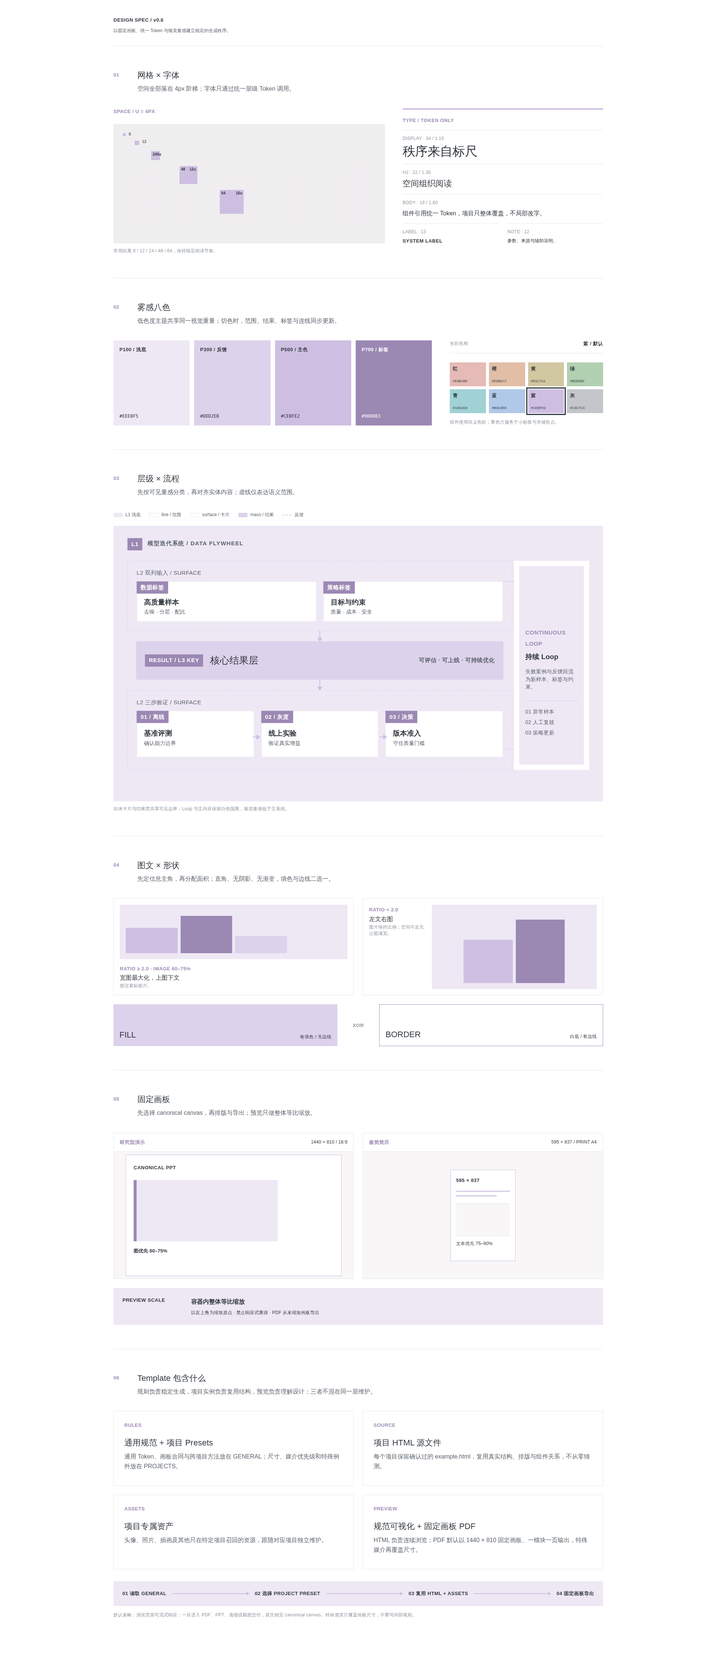
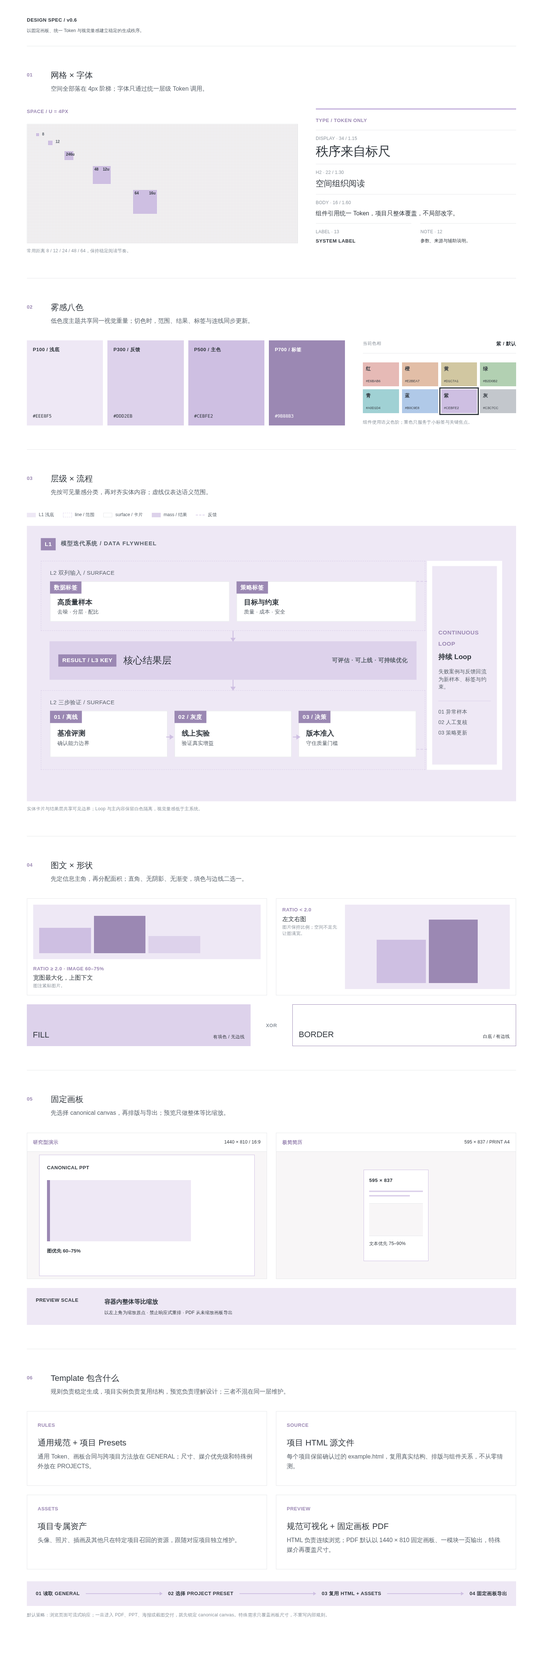
还原网页首图质感并优化展示截图

diff --git a/design-minimalist-613/assets/template/projects/personal-web/example.html b/design-minimalist-613/assets/template/projects/personal-web/example.html
@@ -3,20 +3,59 @@
 <head>
 <meta charset="utf-8">
 <meta name="viewport" content="width=device-width,initial-scale=1">
-<title>这是一个个人网页｜匿名展示</title>
+<title>这是一个个人网页｜公开示例</title>
 <style>
-:root{--ink:#293139;--text:#5C6670;--muted:#8C959D;--paper:#F5F2EE;--white:#FFF;--lav:#DAD2E8;--blue:#C9DBED;--green:#CFE0D0;--orange:#E8CEBC;--yellow:#E2D8B8;--pink:#E8CECF;--font:"PingFang SC","Microsoft YaHei","Noto Sans CJK SC","Source Han Sans SC",sans-serif}
-*{box-sizing:border-box;margin:0;padding:0}html,body{width:100%;min-height:100%;background:var(--paper);color:var(--ink);font-family:var(--font);-webkit-font-smoothing:antialiased}.page{width:1440px;height:900px;margin:0 auto;background:var(--paper);overflow:hidden;position:relative;padding:32px 44px 38px}.topbar{height:48px;display:flex;align-items:flex-start;justify-content:space-between;border-bottom:1px solid rgba(41,49,57,.18)}.brand{font-size:14px;font-weight:650;letter-spacing:.12em}.nav{display:flex;gap:24px;font-size:12px;color:var(--text);letter-spacing:.06em}.hero{height:430px;display:grid;grid-template-columns:.43fr .57fr;gap:20px;padding-top:20px}.intro{background:var(--white);padding:40px 42px;position:relative;display:flex;flex-direction:column}.eyebrow{font-size:12px;letter-spacing:.16em;color:#8B769E;font-weight:650}.intro h1{font-size:58px;line-height:1.04;letter-spacing:-.04em;font-weight:320;margin-top:34px;max-width:500px}.intro p{font-size:16px;line-height:1.72;color:var(--text);margin-top:22px;max-width:430px}.chips{display:flex;gap:8px;margin-top:auto}.chip{padding:8px 12px;font-size:12px;background:var(--lav)}.chip:nth-child(2){background:var(--green)}.chip:nth-child(3){background:var(--orange)}.portrait{position:relative;background:var(--blue);overflow:hidden}.portrait .shape{position:absolute}.shape.a{width:310px;height:310px;border-radius:50%;background:var(--yellow);left:52px;top:54px}.shape.b{width:244px;height:360px;background:var(--pink);right:82px;top:32px;transform:rotate(8deg)}.shape.c{width:210px;height:210px;border-radius:50%;background:var(--green);right:28px;bottom:-44px}.figure{position:absolute;left:50%;top:46%;transform:translate(-50%,-50%);width:190px;height:310px}.head{position:absolute;width:108px;height:122px;border-radius:48% 48% 44% 44%;background:#F4E1D5;left:42px;top:10px}.hair{position:absolute;width:128px;height:88px;border-radius:64px 64px 24px 24px;background:#4B494B;left:31px;top:0}.body{position:absolute;width:188px;height:210px;background:#7A8DA5;left:0;top:111px;clip-path:polygon(18% 0,82% 0,100% 100%,0 100%)}.face-line{position:absolute;width:40px;height:1px;background:#7C6B67;left:76px;top:80px}.portrait-note{position:absolute;right:24px;bottom:22px;font-size:12px;letter-spacing:.12em;color:rgba(41,49,57,.7);writing-mode:vertical-rl}
-.grid{height:346px;display:grid;grid-template-columns:1.05fr .95fr 1.25fr .75fr;grid-template-rows:1fr 1fr;gap:12px;margin-top:12px}.card{padding:20px 22px;background:var(--white);display:flex;flex-direction:column;overflow:hidden}.card .index{font-size:11px;letter-spacing:.14em;font-weight:650;color:var(--muted)}.card h2{font-size:22px;line-height:1.28;font-weight:550;margin-top:12px}.card p{font-size:13px;line-height:1.65;color:var(--text);margin-top:7px}.card strong{font-size:42px;line-height:1;font-weight:300;margin-top:auto}.lav{background:var(--lav)}.green{background:var(--green)}.orange{background:var(--orange)}.yellow{background:var(--yellow)}.wide{grid-column:2/span 2}.tall{grid-row:1/span 2;grid-column:4}.bands{display:flex;gap:7px;margin-top:auto}.bands i{display:block;height:68px;flex:1}.bands i:nth-child(1){background:#9F8DB7}.bands i:nth-child(2){background:#91ACC5}.bands i:nth-child(3){background:#91AF92}.bands i:nth-child(4){background:#BE987E}.bands i:nth-child(5){background:#B3A36E}.list{margin-top:18px;display:grid;gap:10px}.list span{display:flex;justify-content:space-between;padding-bottom:9px;border-bottom:1px solid rgba(41,49,57,.18);font-size:13px}.footer{height:26px;margin-top:16px;display:flex;justify-content:space-between;align-items:end;color:var(--muted);font-size:11px;letter-spacing:.08em}
-@media(max-width:900px){body{overflow:auto}.page{transform-origin:top left;transform:scale(calc(100vw / 1440));margin:0;height:900px}}
+:root{
+  --canvas-w:1440px;--canvas-h:920px;
+  --paper:#F8F6F7;--white:#FFFFFF;--ink:#30363D;--text:#59616A;--muted:#8A929B;--border:#E6E8EA;
+  --purple-100:#EEE8F5;--purple-300:#DDD2EB;--purple-500:#CEBFE2;--purple-700:#9B88B3;
+  --green-300:#CADECA;--orange-300:#EBD2C2;
+  --font:"PingFang SC","Microsoft YaHei","Noto Sans SC","Source Han Sans SC",sans-serif;
+  --display:300 96px/1.03 var(--font);--h2:500 22px/1.3 var(--font);--body:400 16px/1.6 var(--font);
+  --label:600 12px/1.35 var(--font);--note:400 13px/1.5 var(--font)
+}
+*{box-sizing:border-box;margin:0;padding:0;border-radius:0}
+html,body{width:100%;min-height:100%;background:var(--paper);color:var(--ink);font-family:var(--font)}
+body{overflow:auto}.page{position:relative;width:var(--canvas-w);height:var(--canvas-h);margin:0 auto;background:var(--paper);overflow:hidden}
+.topbar{position:absolute;z-index:5;left:60px;right:60px;top:16px;height:56px;padding:0 20px;display:flex;align-items:center;justify-content:space-between;background:rgba(255,255,255,.92);border:1px solid var(--border)}
+.brand{font:var(--label);letter-spacing:.12em}.brand b{display:inline-flex;margin-left:8px;padding:7px 6px;background:var(--purple-300)}
+.nav{display:flex;gap:32px;color:var(--text);font:var(--note)}.nav span:first-child{padding-bottom:8px;border-bottom:2px solid var(--purple-700);color:var(--ink)}
+.hero{position:relative;width:100%;height:100%;padding:148px 80px 80px;display:grid;grid-template-columns:1.05fr .95fr;gap:72px}
+.hero-copy{display:flex;flex-direction:column;align-items:flex-start}.hero-kicker{display:flex;align-items:center;gap:12px;margin-top:8px;font:var(--label);letter-spacing:.14em}.live-dot{width:8px;height:8px;background:#9AB99B;border-radius:50%}
+h1{margin-top:30px;font:var(--display);letter-spacing:-.03em}h1 em{display:block;color:var(--purple-700);font:inherit;font-style:normal}
+.hero-belief{margin-top:30px;padding:12px 16px;border-left:4px solid var(--purple-700);background:var(--purple-100);color:var(--text);font:var(--body)}.hero-belief strong{color:var(--ink);font-weight:600}
+.primary-action{display:inline-flex;align-items:center;gap:24px;margin-top:28px;padding:15px 20px;background:var(--ink);color:#fff;font:400 14px/1.5 var(--font);text-decoration:none}.primary-action b{font-size:18px;font-weight:400}
+.hero-tags{display:flex;gap:10px;margin-top:32px}.hero-tags span{padding:9px 12px;border:1px solid var(--border);background:#fff;font:var(--note)}
+.hero-intro{width:100%;margin-top:28px;padding-top:24px;border-top:1px solid var(--border);color:var(--text);font:var(--body)}.hero-intro strong{color:var(--ink);font-weight:600}
+.portrait-stage{position:relative;min-width:0;height:650px}.portrait-orbit{position:absolute;border:1px dashed}.orbit-one{width:560px;height:560px;left:8px;top:82px;border-color:var(--purple-500);border-radius:50%}.orbit-two{width:470px;height:610px;left:66px;top:28px;border-color:#AFCDAF;border-radius:50%;transform:rotate(9deg)}
+.portrait-frame{position:absolute;z-index:2;left:88px;top:36px;width:430px;height:570px;padding:12px;background:#fff;transform:rotate(1.8deg)}.portrait-frame img{width:100%;height:100%;display:block;object-fit:cover;object-position:50% 50%}
+.portrait-note{position:absolute;z-index:3;padding:11px 14px;background:#fff;border:1px solid var(--border);font:var(--label);letter-spacing:.08em}.note-one{right:4px;top:86px}.note-two{left:0;bottom:110px}
+.platform-ticket{position:absolute;z-index:4;right:-2px;bottom:64px;width:410px;height:70px;padding:12px 16px;display:grid;grid-template-columns:1fr 32px 1fr;align-items:center;background:#F5E8E0;border:1px solid #B7837E;transform:rotate(-2deg)}.platform-ticket small{display:block;color:var(--muted);font:600 9px/1.2 var(--font);letter-spacing:.08em}.platform-ticket strong{display:block;margin-top:4px;font:600 11px/1.2 var(--font)}.platform-ticket i{text-align:center;font-style:normal;color:var(--purple-700)}
+.coordinate{position:absolute;right:12px;top:0;color:var(--muted);font:400 11px/1.45 ui-monospace,SFMono-Regular,Menlo,monospace;text-align:right}
+@media(max-width:900px){.page{margin:0;transform-origin:top left;transform:scale(calc(100vw / 1440));height:920px}}
+@page{size:1440px 920px;margin:0}@media print{html,body{width:1440px;height:920px;background:var(--paper)}.page{margin:0;transform:none!important}}
 </style>
 </head>
 <body>
 <main class="page">
-<header class="topbar"><div class="brand">PERSONAL WEB / DM613</div><nav class="nav"><span>个人网页</span><span>页面索引</span><span>内容结构</span><span>联系示例</span></nav></header>
-<section class="hero"><article class="intro"><span class="eyebrow">这是一个个人网页 · PERSONAL PAGE</span><h1>这是一个<br>个人网页</h1><p>这是一个个人网页。这是一段匿名介绍，用来展示多色系统、图文编排与模块层级，不包含真实姓名、经历、公司或联系方式。</p><div class="chips"><span class="chip">这是一个标签</span><span class="chip">个人网页</span><span class="chip">匿名示例</span></div></article><figure class="portrait" aria-label="匿名人物插画"><i class="shape a"></i><i class="shape b"></i><i class="shape c"></i><div class="figure"><i class="hair"></i><i class="head"></i><i class="face-line"></i><i class="body"></i></div><figcaption class="portrait-note">ANONYMOUS PORTRAIT</figcaption></figure></section>
-<section class="grid"><article class="card lav"><span class="index">01 / ABOUT</span><h2>这是一个个人网页</h2><p>这是一个个人网页，展示清晰标题与短段落之间的阅读节奏。</p><strong>01</strong></article><article class="card wide"><span class="index">02 / COLOR SYSTEM</span><h2>多色系统，不等于颜色堆叠</h2><p>每一种颜色承担固定语义，同明度切换，保持视觉重量一致。</p><div class="bands"><i></i><i></i><i></i><i></i><i></i></div></article><article class="card tall green"><span class="index">03 / INDEX</span><h2>个人网页</h2><div class="list"><span>这是一个标题 <b>01</b></span><span>这是一个标题 <b>02</b></span><span>这是一个标题 <b>03</b></span><span>这是一个标题 <b>04</b></span><span>这是一个标题 <b>05</b></span></div><strong>DM613</strong></article><article class="card orange"><span class="index">04 / LAYOUT</span><h2>图文编排</h2><p>大图建立情绪，小卡片补充层级。</p><strong>60–75%</strong></article><article class="card yellow"><span class="index">05 / SYSTEM</span><h2>统一 Token</h2><p>字号、间距与颜色不在单节点里临时决定。</p><strong>4 px</strong></article><article class="card"><span class="index">06 / LOOP</span><h2>这是一个个人网页</h2><p>保留结构与视觉方法，替换掉所有可识别信息。</p><strong>LOOP</strong></article></section>
-<footer class="footer"><span>DESIGN MINIMALIST 613 · ANONYMIZED SHOWCASE</span><span>1440 × 900</span></footer>
+  <header class="topbar"><div class="brand">DESIGN MINIMALIST <b>613</b></div><nav class="nav"><span>关于</span><span>项目</span><span>设计系统</span><span>生活</span></nav></header>
+  <section class="hero" aria-labelledby="hero-title">
+    <div class="hero-copy">
+      <div class="hero-kicker"><span class="live-dot"></span>PERSONAL PAGE · DESIGN SYSTEM</div>
+      <h1 id="hero-title">这是一个<em>个人网页</em></h1>
+      <p class="hero-belief">快速落地决定下限，<strong>taste</strong> 决定上限</p>
+      <span class="primary-action">认识这个示例 <b>↘</b></span>
+      <div class="hero-tags"><span>AI 与评测</span><span>产品运营</span><span>设计系统</span></div>
+      <p class="hero-intro">这是一个个人网页的公开示例。它保留真实的构图、字体节奏与图文关系，同时移除姓名、地点、经历和联系方式。</p>
+    </div>
+    <div class="portrait-stage" aria-label="匿名人物资产">
+      <div class="portrait-orbit orbit-one"></div><div class="portrait-orbit orbit-two"></div>
+      <div class="portrait-frame"><img src="assets/portrait.png" alt="匿名人物插画"></div>
+      <div class="portrait-note note-one">○ PUBLIC SHOWCASE</div><div class="portrait-note note-two">✦ TASTE = WEIGHT</div>
+      <div class="platform-ticket"><div><small>PASSENGER</small><strong>PERSONAL PAGE · 0613</strong></div><i>→</i><div><small>DESTINATION</small><strong>PRODUCTIZATION</strong></div></div>
+      <div class="coordinate">CANONICAL CANVAS<br>1440 × 920</div>
+    </div>
+  </section>
 </main>
 </body>
 </html>

diff --git a/design-minimalist-613/assets/template/projects/resume-minimal/example.html b/design-minimalist-613/assets/template/projects/resume-minimal/example.html
@@ -41,54 +41,50 @@ b,strong{font-family:var(--font-strong);font-weight:var(--w-strong)}em{font-styl
 <div class="viewport" id="viewport"><main class="stage" id="stage"><section class="canvas" id="canvas"><article class="page" aria-label="Design Minimalist 613 匿名示例">
 <header class="header">
   <div class="name">Design Minimalist 613</div>
-  <div class="contact"><span>DM613 · 匿名示例</span><span>DM613 · 结构参考</span><span>DM613 · 示例文字</span></div>
-  <div class="photo"><img src="assets/profile-avatar.png" alt="匿名示例"></div>
+  <div class="contact"><span>AI 产品运营</span><span>视觉系统设计</span><span>公开履历示例</span></div>
+  <div class="photo"><img src="assets/profile-avatar.png" alt="匿名人物插画"></div>
 </header>
 <h2 class="section-title">实习经历<span class="en">EXPERIENCE</span></h2>
 <article class="entry">
-  <div class="entry-head"><div class="company-wrap"><span class="company"><span class="company-name">Design Minimalist 613</span><span class="note">（匿名示例）</span></span><span class="dept-inline">结构参考 - <span class="dept-strong">示例文字</span></span></div><span class="date">DM613</span></div>
-  <section class="project"><div class="project-header"><span class="project-title">匿名示例 - 结构参考</span><span class="project-sub">｜示例文字 示例文字 结构参考</span></div><ul class="bullets">
-    <li><b>结构参考：</b>示例文字 示例文字 匿名示例，示例文字 <em><u>结构参考</u></em>，示例文字 <b><em><u>DM613</u></em></b> 示例文字；匿名示例 示例文字 结构参考，示例文字 示例文字 匿名示例；示例文字 结构参考 匿名示例，示例文字 示例文字 匿名示例。</li>
-    <li><b>匿名示例：</b>示例文字 结构参考 示例文字，匿名示例 示例文字；<em><u>示例文字 结构参考</u></em>，示例文字 <b><em><u>DM613</u></em></b> 匿名示例，结构参考 示例文字；示例文字 结构参考 匿名示例，示例文字 示例文字 匿名示例。</li>
-    <li><b>示例文字：</b>匿名示例 示例文字 结构参考，示例文字 示例文字 匿名示例；结构参考 示例文字，<em><u>匿名示例</u></em> <b><em><u>DM613</u></em></b> 示例文字；示例文字 结构参考 匿名示例，示例文字 示例文字 匿名示例。</li>
+  <div class="entry-head"><div class="company-wrap"><span class="company"><span class="company-name">某数字产品团队</span><span class="note">（匿名示例）</span></span><span class="dept-inline">内容生态 - <span class="dept-strong">AI 产品运营</span></span></div><span class="date">时间略</span></div>
+  <section class="project"><div class="project-header"><span class="project-title">生成式内容工作台</span><span class="project-sub">｜需求研究与交付设计</span></div><ul class="bullets">
+    <li><b>需求研究：</b>梳理创作者、运营与审核角色的核心任务，将零散反馈转化为 <em><u>可验证的场景假设</u></em> 与优先级。</li>
+    <li><b>流程搭建：</b>围绕内容生产链路设计 Agent 工作流，沉淀输入模板、评测样例与 <b><em><u>结果验收标准</u></em></b>。</li>
+    <li><b>交付规范：</b>统一页面结构、状态说明和演示口径，使产品方案、视觉稿与上线说明保持一致。</li>
   </ul></section>
-  <section class="project"><div class="project-header"><span class="project-title">结构参考 - 匿名示例</span><span class="project-sub">｜示例文字 匿名示例 示例文字</span></div><ul class="bullets">
-    <li><b>示例文字：</b>结构参考 示例文字 匿名示例，示例文字 示例文字，匿名示例 结构参考 示例文字，DM613 示例文字；示例文字 结构参考 匿名示例，示例文字 示例文字 匿名示例。</li>
-    <li><b>结构参考：</b>匿名示例 示例文字，结构参考 示例文字 匿名示例；示例文字 结构参考，匿名示例 示例文字；示例文字 结构参考 匿名示例，示例文字 示例文字 匿名示例。</li>
-  </ul></section>
-</article>
-<article class="entry">
-  <div class="entry-head"><div class="company-wrap"><span class="company"><span class="company-name">Design Minimalist 613</span><span class="note">（结构参考）</span></span><span class="dept-inline">匿名示例 - <span class="dept-strong">示例文字</span></span></div><span class="date">DM613</span></div>
-  <section class="project"><div class="project-header"><span class="project-title">示例文字 - 匿名示例</span><span class="project-sub">｜结构参考 示例文字 匿名示例</span></div><ul class="bullets">
-    <li><b>匿名示例：</b>示例文字 结构参考 匿名示例，<b><em><u>示例文字</u></em></b> 结构参考；匿名示例 示例文字，结构参考 <em><u>DM613</u></em> 示例文字；示例文字 结构参考 匿名示例，示例文字 示例文字 匿名示例。</li>
-    <li><b>结构参考：</b>匿名示例 示例文字 示例文字，结构参考 匿名示例；<em><u>示例文字 结构参考 匿名示例</u></em>，示例文字 示例文字；示例文字 结构参考 匿名示例，示例文字 示例文字 匿名示例。</li>
-    <li><b>示例文字：</b>结构参考 匿名示例 示例文字，匿名示例 <em><u>结构参考</u></em>，示例文字 <b><em><u>DM613</u></em></b> 匿名示例；示例文字 结构参考 匿名示例，示例文字 示例文字 匿名示例。</li>
-  </ul><p class="achievement"><b>匿名示例：Design Minimalist 613 · 结构参考 · 示例文字</b></p></section>
-  <section class="project"><div class="project-header"><span class="project-title">结构参考 - 示例文字</span><span class="project-sub">｜匿名示例 示例文字 结构参考</span></div><ul class="bullets">
-    <li><b>结构参考：</b>示例文字 匿名示例 结构参考，示例文字 示例文字 匿名示例；结构参考 示例文字 DM613；示例文字 结构参考 匿名示例，示例文字 示例文字 匿名示例。</li>
-    <li><b>匿名示例：</b>结构参考 示例文字，匿名示例 示例文字；结构参考 匿名示例，示例文字 示例文字；示例文字 结构参考 匿名示例，示例文字 示例文字 匿名示例。</li>
-  </ul></section>
-  <section class="project"><div class="project-header"><span class="project-title">匿名示例 - 结构参考</span><span class="project-sub">｜示例文字 示例文字 匿名示例</span></div><ul class="bullets">
-    <li><b>示例文字：</b>匿名示例 结构参考 示例文字，示例文字 匿名示例；结构参考 示例文字 匿名示例，DM613 示例文字；示例文字 结构参考 匿名示例，示例文字 示例文字 匿名示例。</li>
-    <li><b>结构参考：</b>示例文字 匿名示例，结构参考 示例文字 匿名示例；示例文字 结构参考 示例文字；示例文字 结构参考 匿名示例，示例文字 示例文字 匿名示例。</li>
+  <section class="project"><div class="project-header"><span class="project-title">内容质量评测</span><span class="project-sub">｜从案例库到验收标准</span></div><ul class="bullets">
+    <li><b>样例建设：</b>整理典型成功案例与失败案例，建立覆盖信息准确性、可读性和视觉完成度的分层样本。</li>
+    <li><b>评测闭环：</b>把人工判断拆成可复用标签，支持版本比较、问题定位与后续策略迭代。</li>
   </ul></section>
 </article>
 <article class="entry">
-  <div class="entry-head all-strong"><div class="company-wrap"><span class="company">Design Minimalist 613<span class="note">（匿名示例）</span></span><span class="dept-inline">结构参考 - 示例文字</span></div><span class="date">DM613</span></div>
+  <div class="entry-head"><div class="company-wrap"><span class="company"><span class="company-name">某互联网平台</span><span class="note">（匿名示例）</span></span><span class="dept-inline">增长方向 - <span class="dept-strong">策略运营</span></span></div><span class="date">时间略</span></div>
+  <section class="project"><div class="project-header"><span class="project-title">新功能推广</span><span class="project-sub">｜用户洞察与 GTM 协同</span></div><ul class="bullets">
+    <li><b>策略设计：</b>结合用户反馈与使用路径识别关键阻塞点，形成分人群的触达内容与产品教育方案。</li>
+    <li><b>跨团队协同：</b>联动产品、设计和研发推进素材交付，建立 <em><u>目标—动作—结果</u></em> 的复盘框架。</li>
+    <li><b>知识沉淀：</b>把一次性活动方法整理为复用清单，降低后续项目的沟通与启动成本。</li>
+  </ul><p class="achievement"><b>结果：形成可持续复用的项目模板与协作机制</b></p></section>
+  <section class="project"><div class="project-header"><span class="project-title">内容增长实验</span><span class="project-sub">｜结构化测试与复盘</span></div><ul class="bullets">
+    <li><b>实验设计：</b>明确目标人群、内容变量与观测指标，避免多个变量同时变化导致结论失真。</li>
+    <li><b>复盘方法：</b>将有效做法、失败原因与适用边界一并记录，方便下一轮快速复用。</li>
+  </ul></section>
+</article>
+<article class="entry">
+  <div class="entry-head all-strong"><div class="company-wrap"><span class="company">独立设计项目<span class="note">（公开示例）</span></span><span class="dept-inline">视觉系统与网页</span></div><span class="date">持续更新</span></div>
   <ul class="bullets">
-    <li><b>匿名示例：</b>结构参考 示例文字 匿名示例，示例文字 示例文字；匿名示例 结构参考，示例文字 DM613。</li>
-    <li><b>结构参考：</b>示例文字 匿名示例 结构参考，示例文字 匿名示例；结构参考 示例文字，匿名示例 示例文字。</li>
-    <li><b>示例文字：</b>匿名示例 示例文字，结构参考 示例文字 匿名示例；示例文字 结构参考，DM613 匿名示例。</li>
+    <li><b>设计系统：</b>以 4px 网格、字体 Token、雾感色板和视觉量感统一跨媒介输出。</li>
+    <li><b>项目模板：</b>为 PPT、简历和个人网页保留 HTML 源实例，避免每次从零猜测结构。</li>
+    <li><b>经验回流：</b>确认有效的规则先进入项目 preset，再根据跨项目表现决定是否晋升通用层。</li>
   </ul>
 </article>
 <h2 class="section-title">教育经历<span class="en">EDUCATION</span></h2>
-<div class="edu-row"><b>Design Minimalist 613</b><span class="edu-date"><b>DM613</b></span><span class="edu-major"><b>匿名示例</b></span></div>
-<div class="edu-row"><span>结构参考 示例文字</span><span class="edu-date">DM613</span><span class="edu-major">匿名示例</span></div>
+<div class="edu-row"><b>某高校</b><span class="edu-date"><b>时间略</b></span><span class="edu-major"><b>专业方向</b></span></div>
+<div class="edu-row"><span>课程与研究经历略</span><span class="edu-date">公开示例</span><span class="edu-major">学历略</span></div>
 <h2 class="section-title">技能与工具<span class="en">SKILLS</span></h2>
 <section class="skills"><ul class="bullets">
-  <li><b>匿名示例：</b>示例文字 结构参考 匿名示例，示例文字 示例文字，<em><u>结构参考 匿名示例 示例文字</u></em>，DM613 示例文字 匿名示例。</li>
-  <li><b>结构参考：</b>匿名示例 示例文字 结构参考，示例文字 匿名示例，<em><u>示例文字 结构参考 匿名示例</u></em>，示例文字 DM613。</li>
-</ul><p class="tools"><b>示例文字：</b>DM613｜匿名示例｜结构参考｜示例文字｜DM613｜匿名示例｜结构参考</p></section>
+  <li><b>产品与运营：</b>用户研究、需求拆解、GTM、内容策略、项目推进与跨团队协同。</li>
+  <li><b>设计与实现：</b>信息架构、设计系统、HTML/CSS、原型制作与 <em><u>固定画板高保真导出</u></em>。</li>
+</ul><p class="tools"><b>工具：</b>Figma｜HTML / CSS｜数据分析｜Agent Workflow｜文档协作</p></section>
 </article></section></main></div>
 <script>
 (function(){

diff --git a/README.md b/README.md
@@ -40,11 +40,11 @@ Design Minimalist 613 的核心不是复刻某一种视觉风格，而是先把*
 
 ### PPT｜由简单到复杂，快速生成
 
-**05 研究不足｜四象限问题拆解**
+**05 研究不足｜四项待深化问题**
 
 ![PPT 05 研究不足完整页](readme-assets/ppt-05-limitations.png)
 
-**02 理论基础｜四层递进结构**
+**02 理论基础｜理论演变谱系**
 
 ![PPT 02 理论基础完整页](readme-assets/ppt-02-theory.png)
 
@@ -52,11 +52,11 @@ Design Minimalist 613 的核心不是复刻某一种视觉风格，而是先把*
 
 ![PPT 04 商业模式复杂画布](readme-assets/ppt-04-business-canvas.png)
 
-### 网页｜多色系统与图文编排
+### 网页｜个人网站首图与图文编排
 
-固定 `1440×900` 展示画板，用匿名人物插画、雾感多色与 Bento 网格表现个人网页的信息层级；所有标题、介绍和导航均为泛化占位内容。
+沿用个人网站首屏的原始构图、字体节奏与图文比例，并将身份、地点、经历和联系方式替换为公开示例；人物区域使用 Skill 资产中的匿名人物图。
 
-![匿名个人网页完整预览](readme-assets/web-personal-anonymized.png)
+![匿名个人网页首图预览](readme-assets/web-personal-anonymized.png)
 
 ### 简历｜高密度层级完整展示
 

diff --git a/design-minimalist-613/references/PROJECTS.md b/design-minimalist-613/references/PROJECTS.md
@@ -77,11 +77,11 @@ preset: assets/template/projects/resume-minimal/preset.yaml
 
 ```yaml
 project: personal-web
-canvas: "1440x900 / fixed showcase"
-priority: balanced
+canvas: "1440x920 / fixed hero showcase"
+priority: image-first
 source: assets/template/projects/personal-web/example.html
 preset: assets/template/projects/personal-web/preset.yaml
 ```
 
-以高对比标题、匿名人物插画和多色 Bento 卡片组织个人主页；固定展示画板用于截图，浏览版可整体适配，但不改动内部阅读顺序。
+沿用个人网站首屏的左右图文构图、超大标题、人物主视觉与辅助标签；浏览版只整体适配，不改动内部阅读顺序，公开实例替换身份、地点与联系方式。
 <!-- AUTO_PROJECT:personal-web END -->
